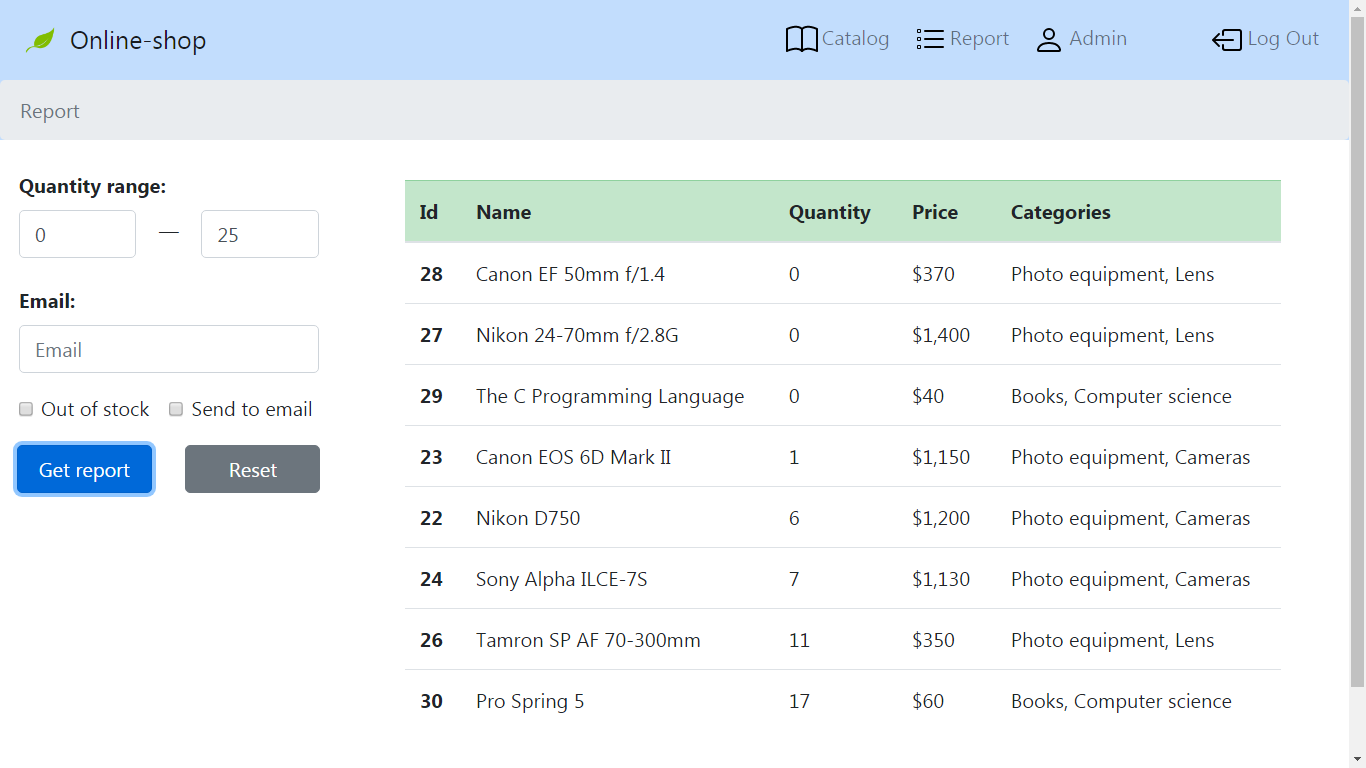
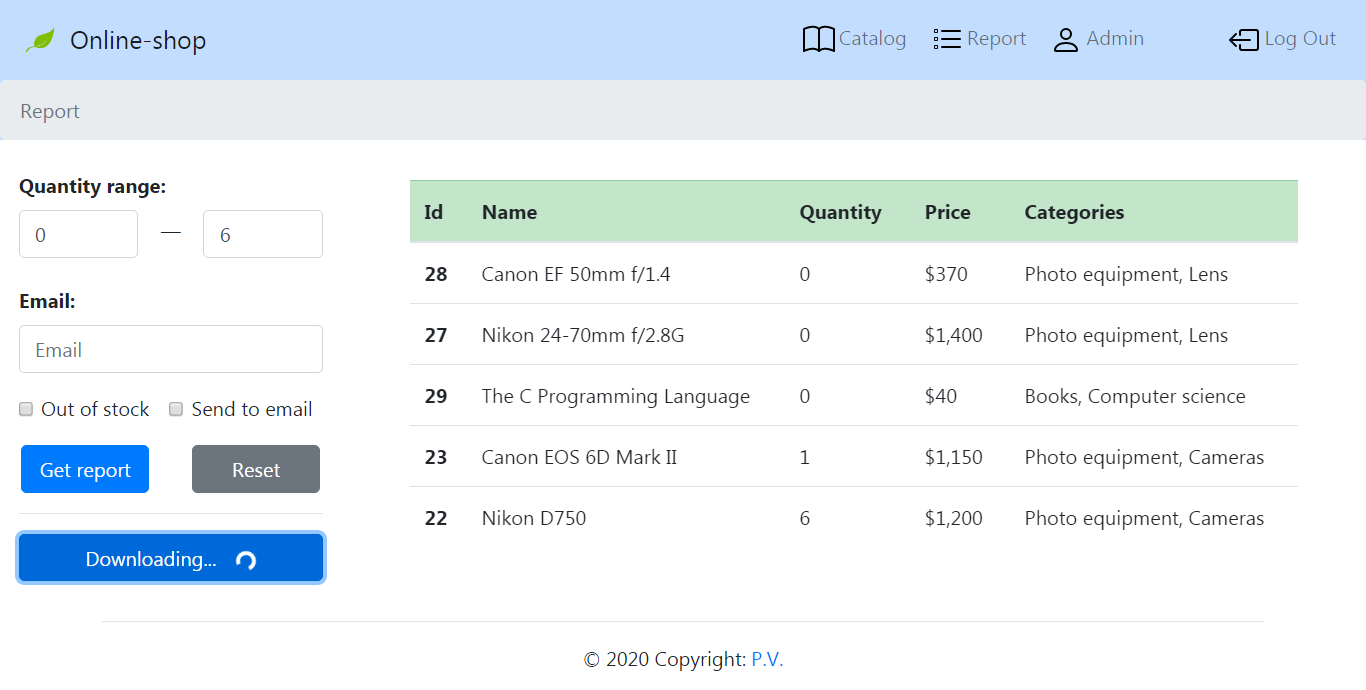
Update README.md

diff --git a/README.md b/README.md
@@ -31,7 +31,8 @@
 </ul>
 <p>В дополнение к общему функционалу приложения, реализована возможность 
 получения на указанный администратором e-mail адрес, html письма, обрабатываемым шаблонизатором 
-Thymeleaf, с вложением отчета в формате excel об остатках товара на складе.</p>
+Thymeleaf, с вложением отчета в формате excel об остатках товара на складе. Имеется функция
+скачивания отчета.</p>
 <p>Также функционал клиентской стороны дополнен возможностью отображения сообщений об 
 ошибках ввода пользователя при заполнении форм и возможностью обработки статуса ответа сервера
 с отображением соответствующего сообщения компонентом <code>PopUp</code>.</p>
@@ -97,7 +98,7 @@ Rest - без сохранения состояния. Для этого в ме
 <code>@RestControllerAdvice</code>, предоставленной Spring Framework.</p>
 <p>Такой подход позволяет исключить использование блоков try-catch в методах контроллеров, а использование 
 исключений, расширяющих класс <code>RuntimeException</code>, позволяет избежать 
-явного обявления проброса исключения</p>
+явного объявления проброса исключения</p>
 
 
 <h2>User interface</h2>
